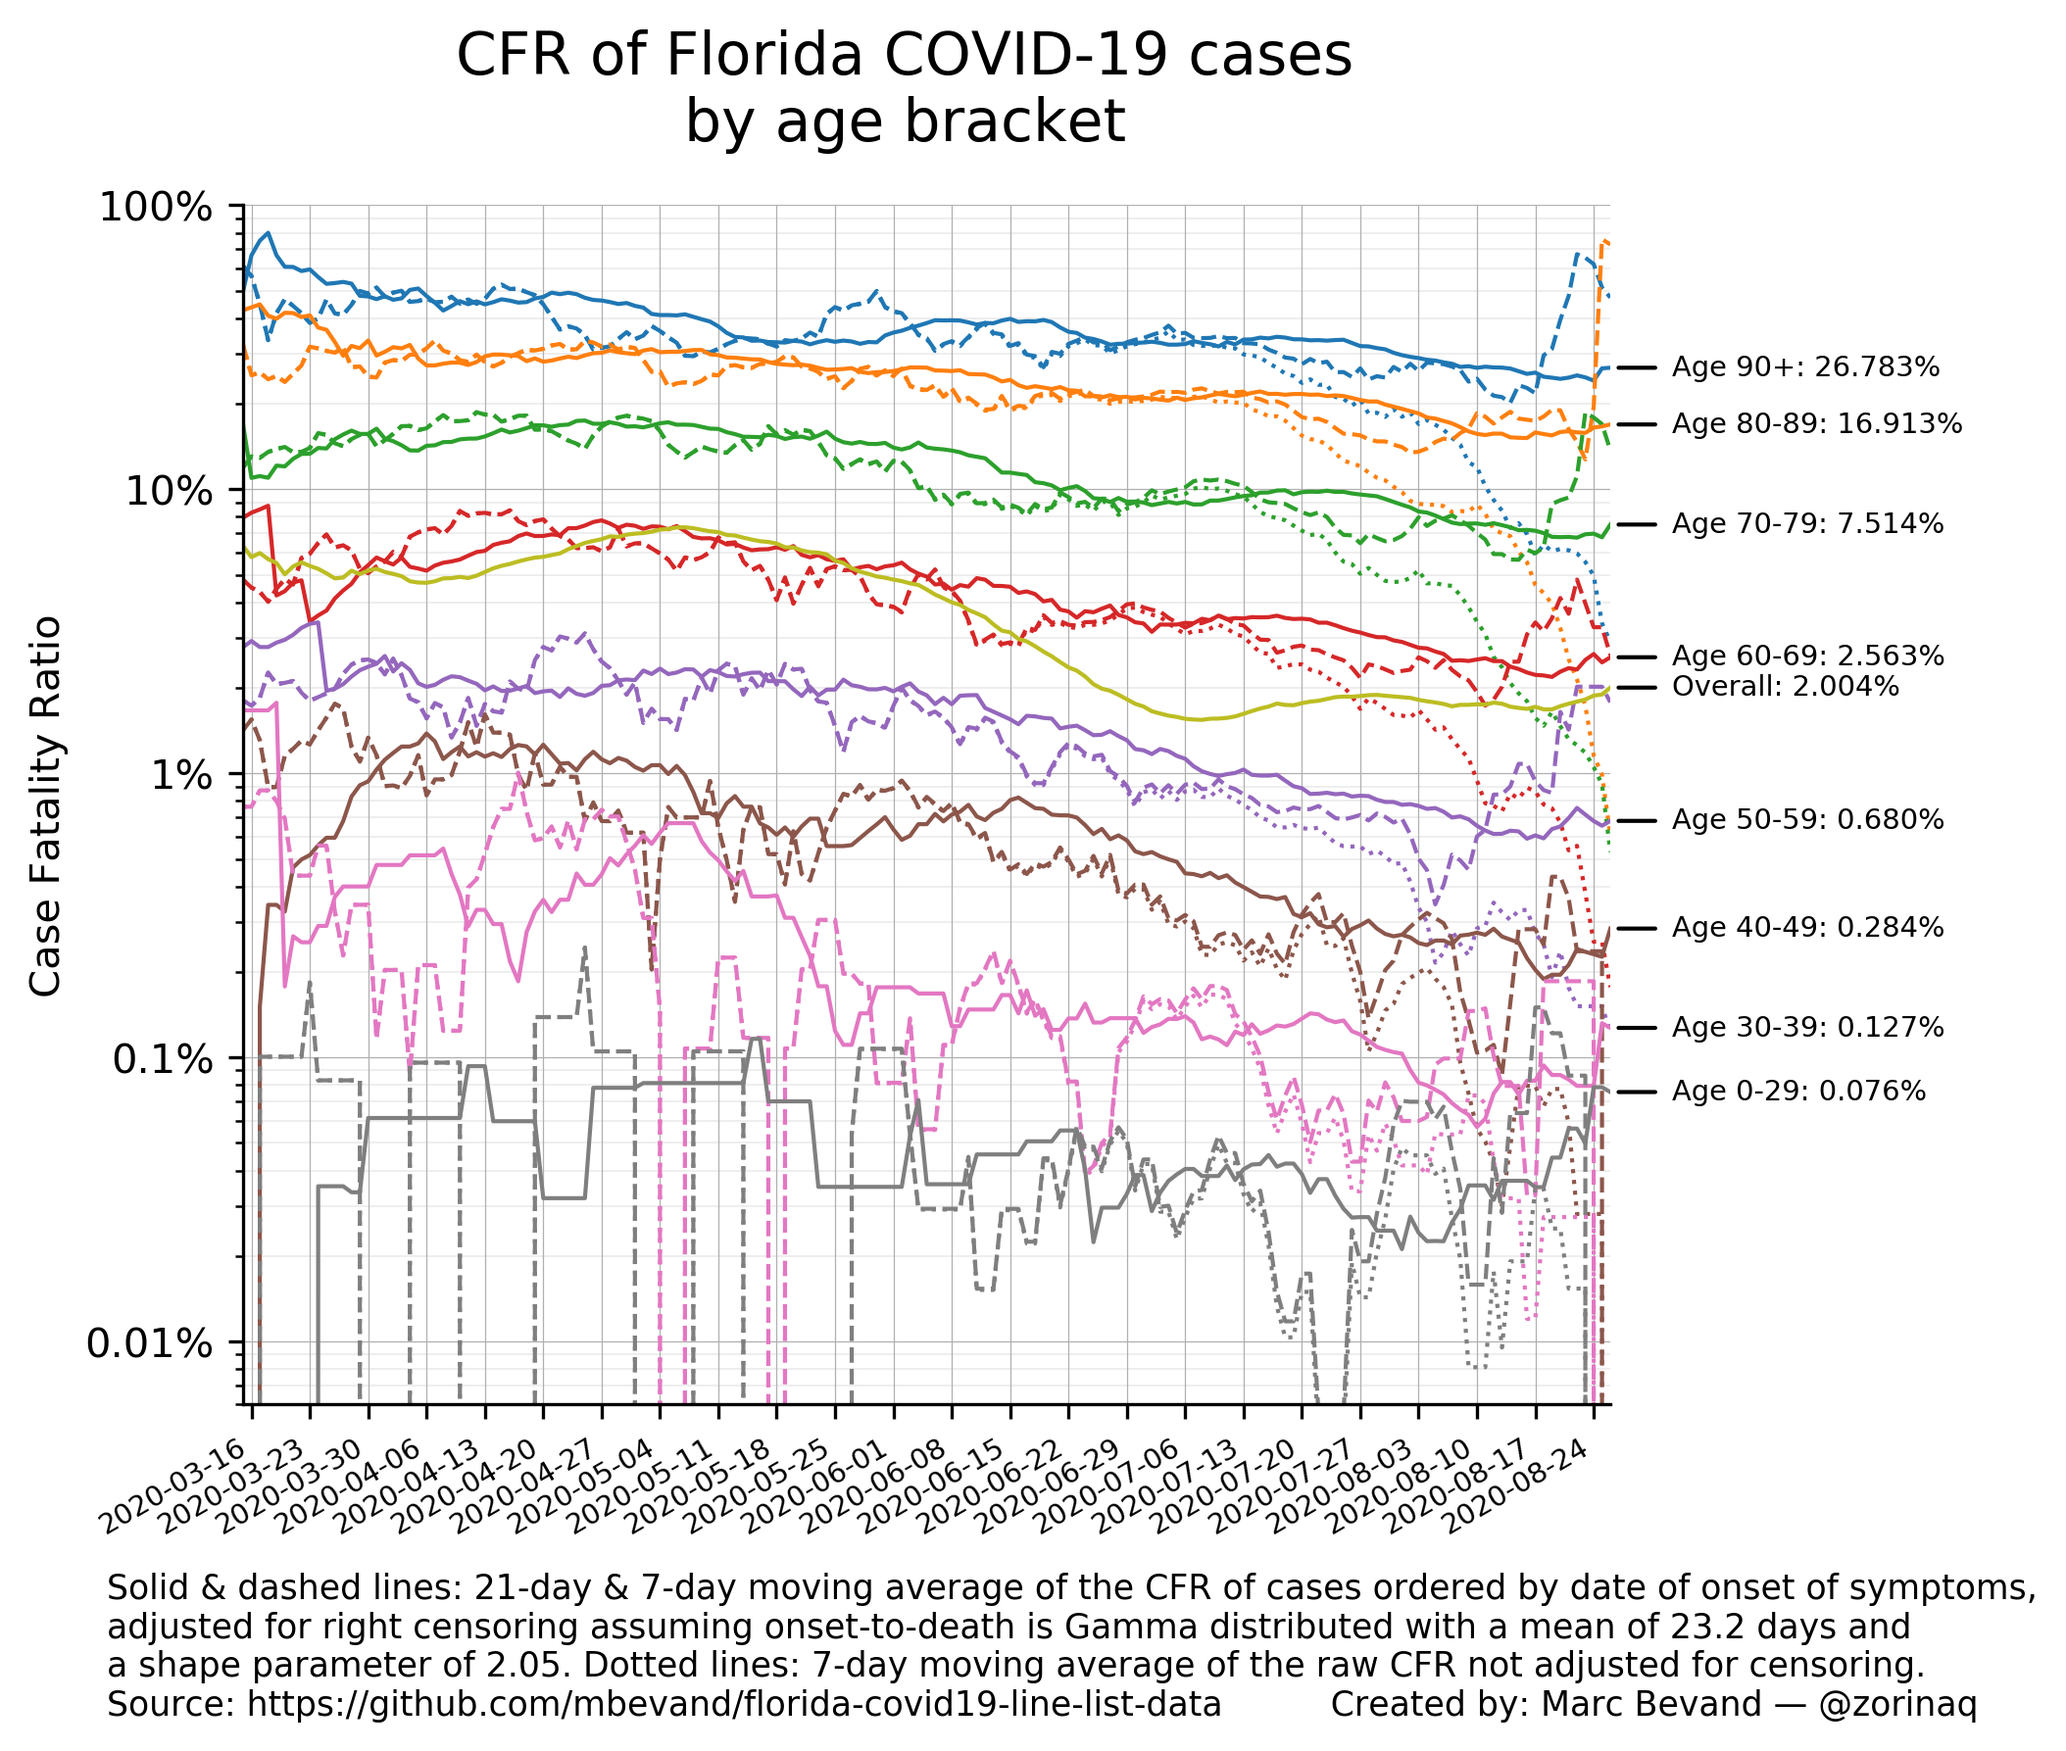
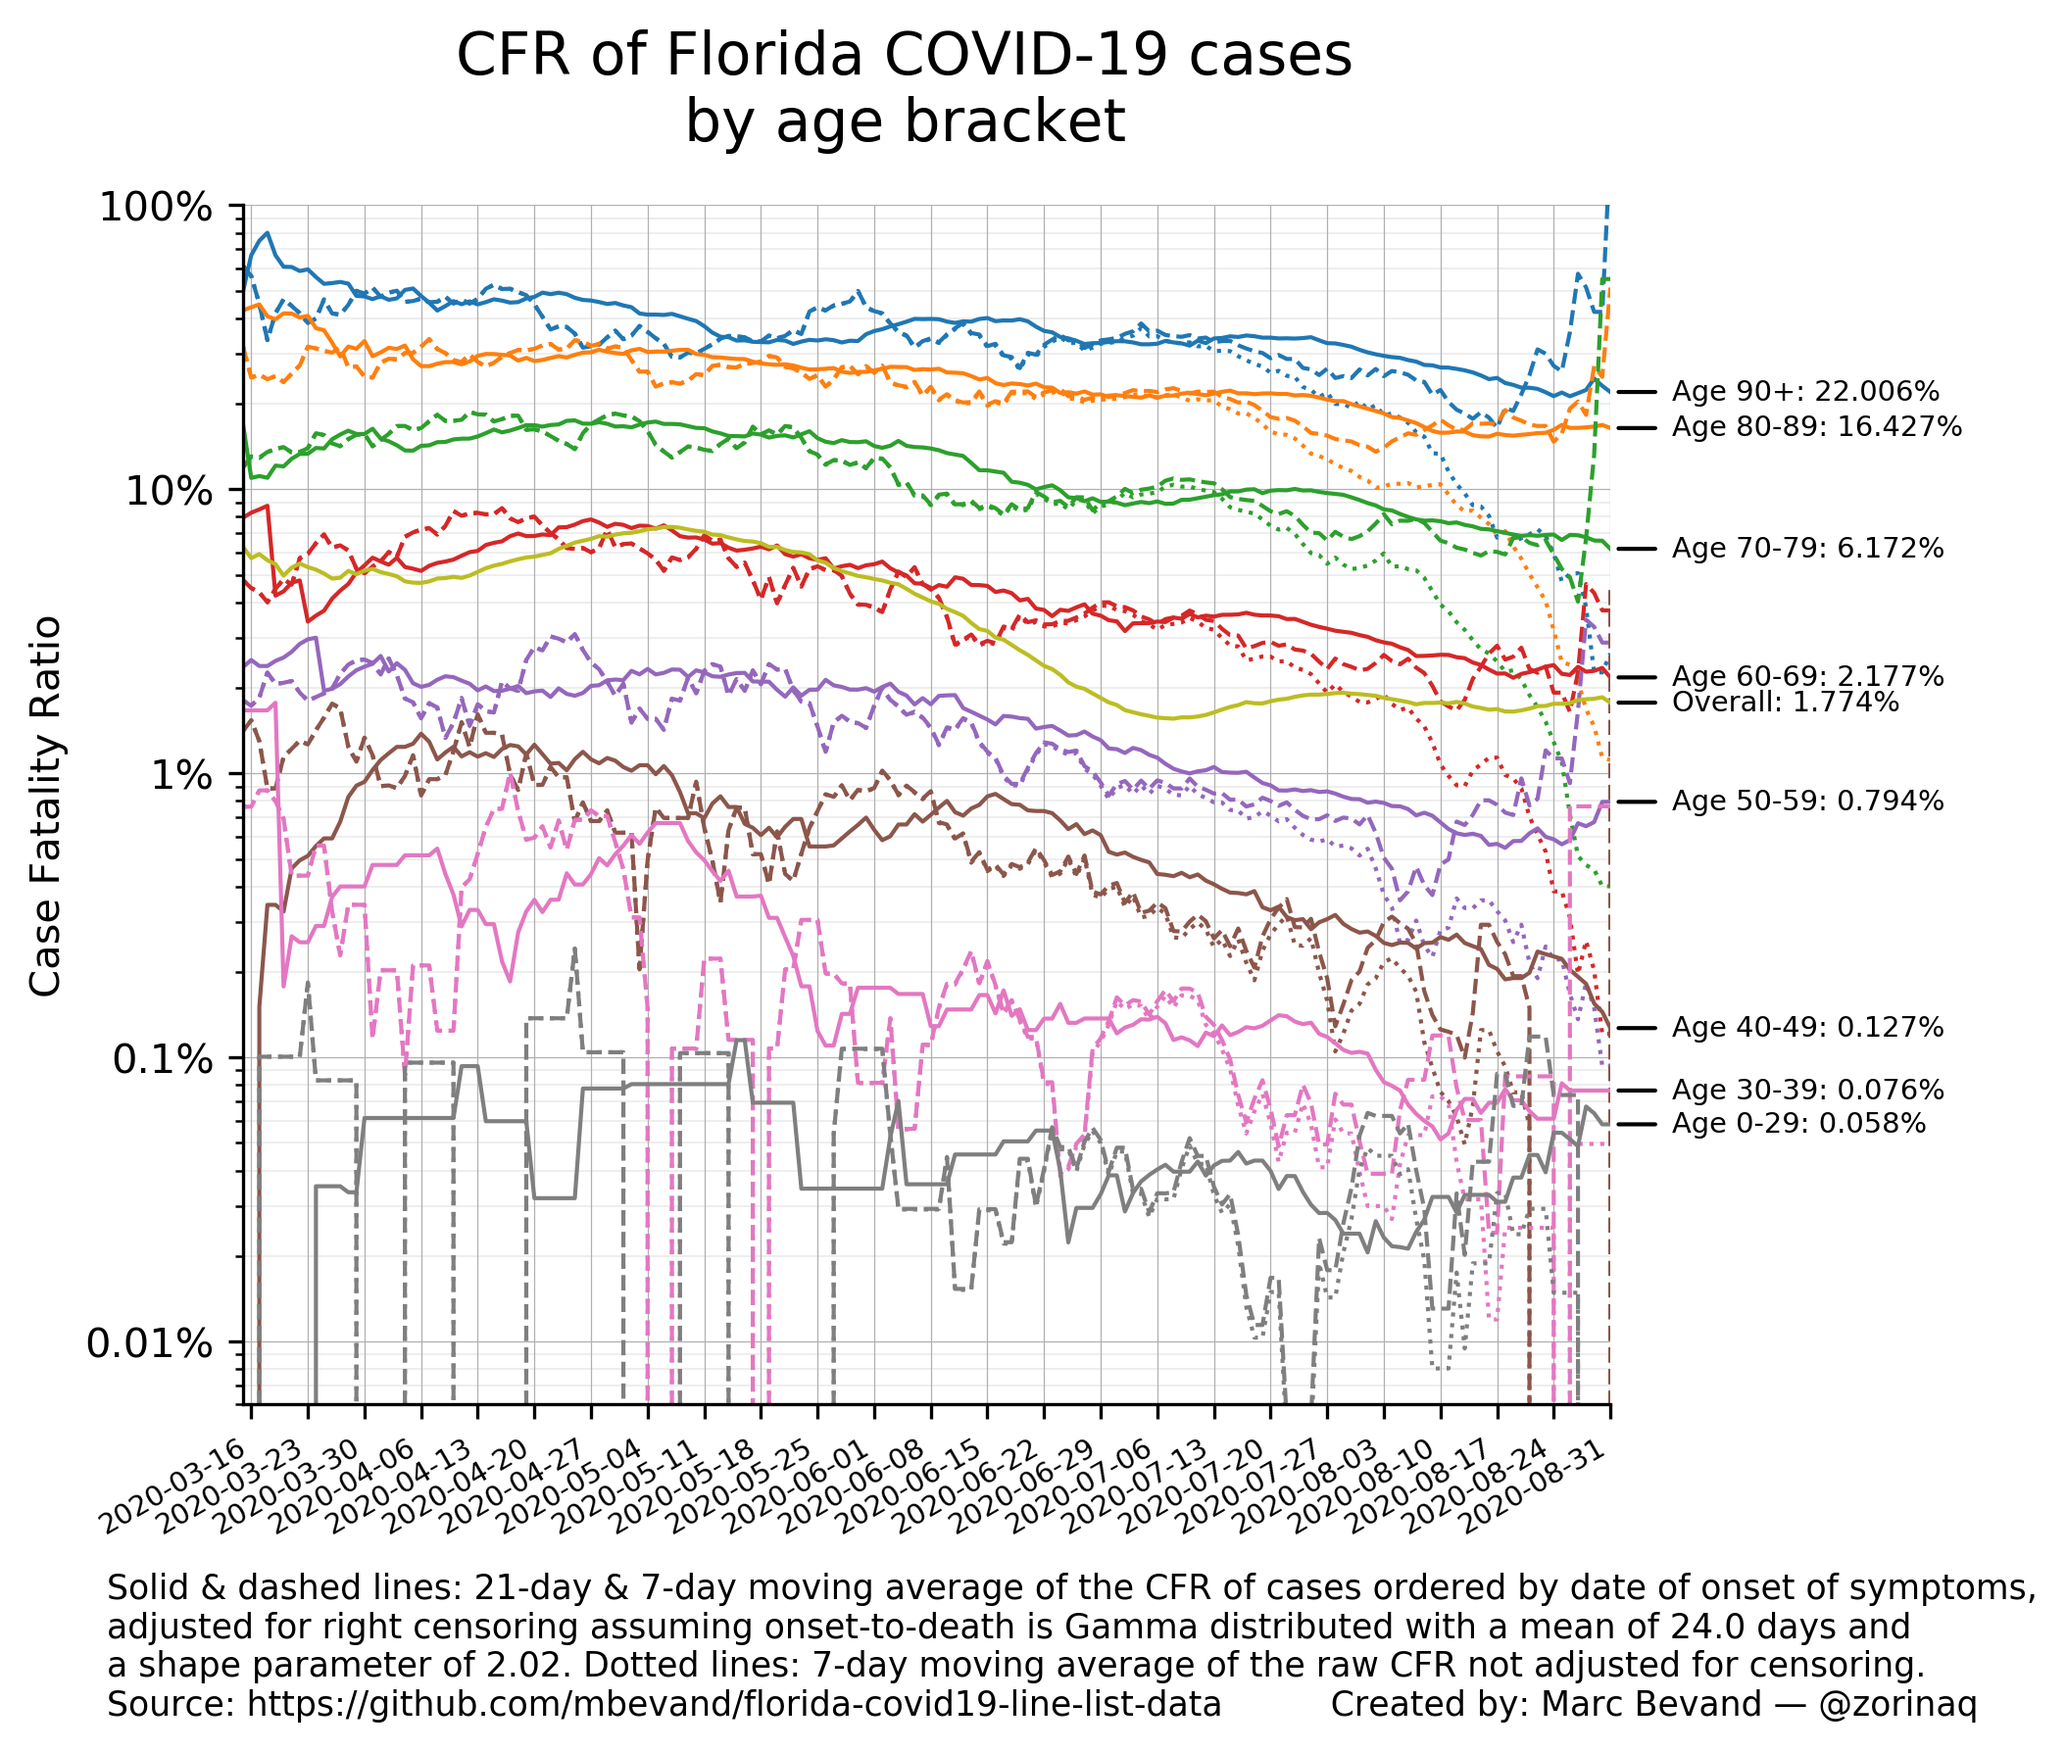
update age-stratified CFRs

Changed region(s): [[0.0617, 0.1231, 0.9559, 0.8926], [0.8017, 0.9233, 0.8634, 0.9541]]

diff --git a/forecast_deaths.py b/forecast_deaths.py
@@ -108,15 +108,15 @@ cfr_models = [
         CFRModel(
             '5',
             'Our CFR calculated on the Florida line list (age_stratified_cfr.py)',
-            2.004 / 100, {
-                (0, 29):  0.076 / 100,
-                (30, 39): 0.127 / 100,
-                (40, 49): 0.284 / 100,
-                (50, 59): 0.680 / 100,
-                (60, 69): 2.563 / 100,
-                (70, 79): 7.514 / 100,
-                (80, 89): 16.913 / 100,
-                (90, 199): 26.783 / 100,
+            1.774 / 100, {
+                (0, 29):  0.058 / 100,
+                (30, 39): 0.076 / 100,
+                (40, 49): 0.127 / 100,
+                (50, 59): 0.794 / 100,
+                (60, 69): 2.177 / 100,
+                (70, 79): 6.172 / 100,
+                (80, 89): 16.427 / 100,
+                (90, 199): 22.006 / 100,
                 }
             ),
         ]
